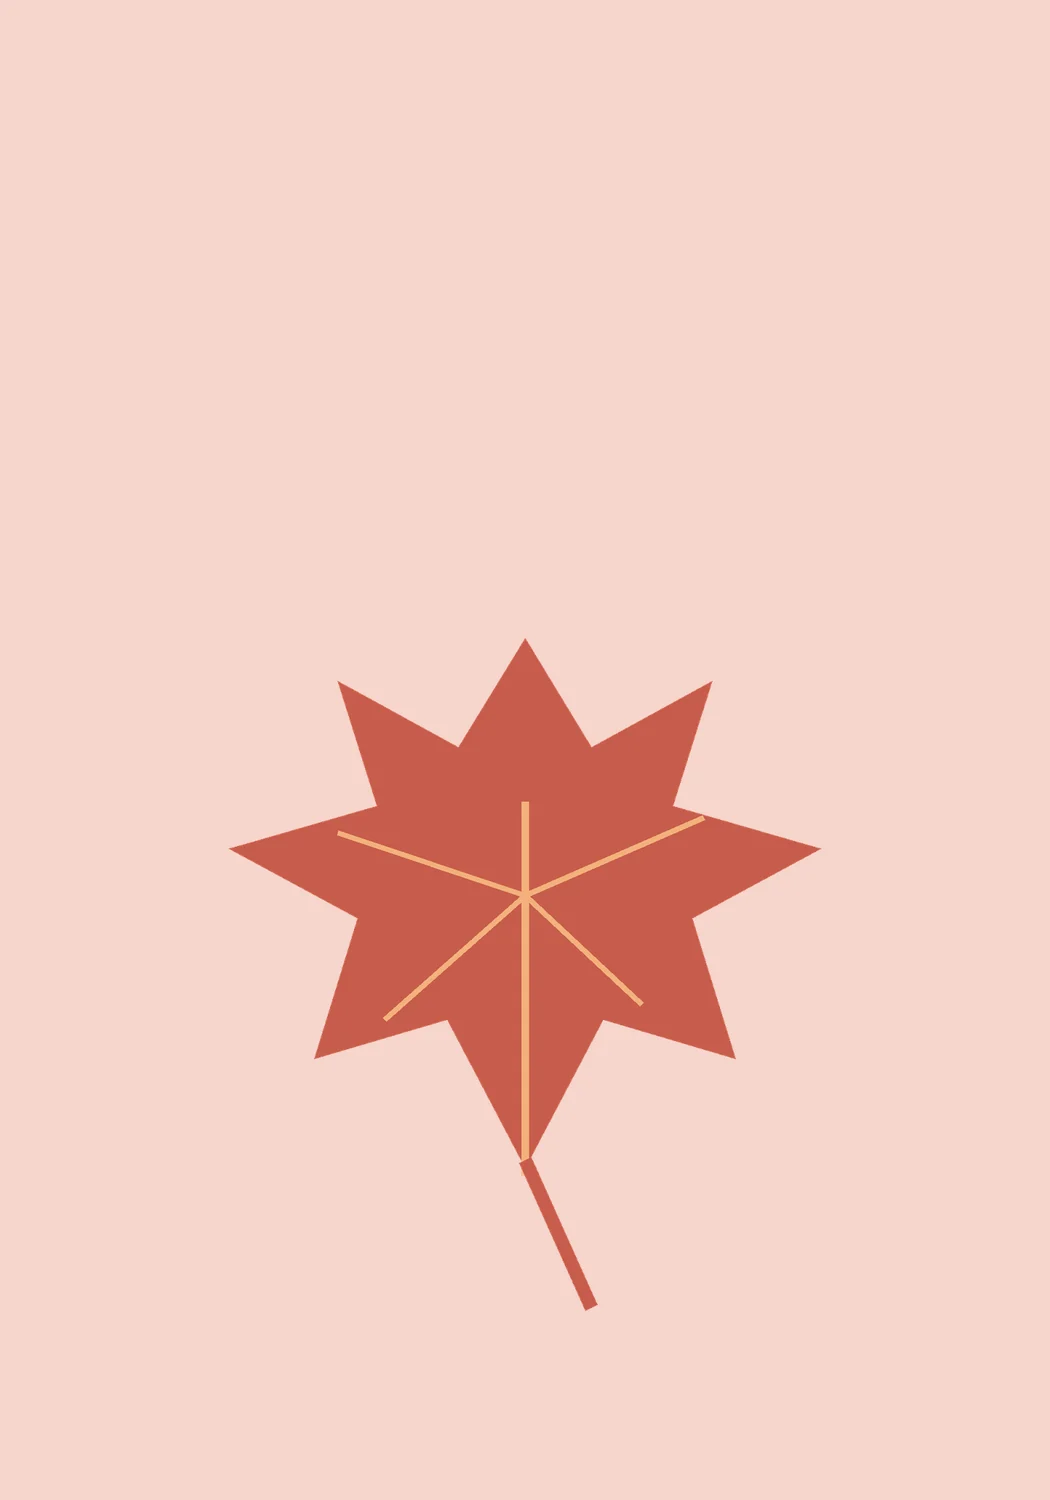
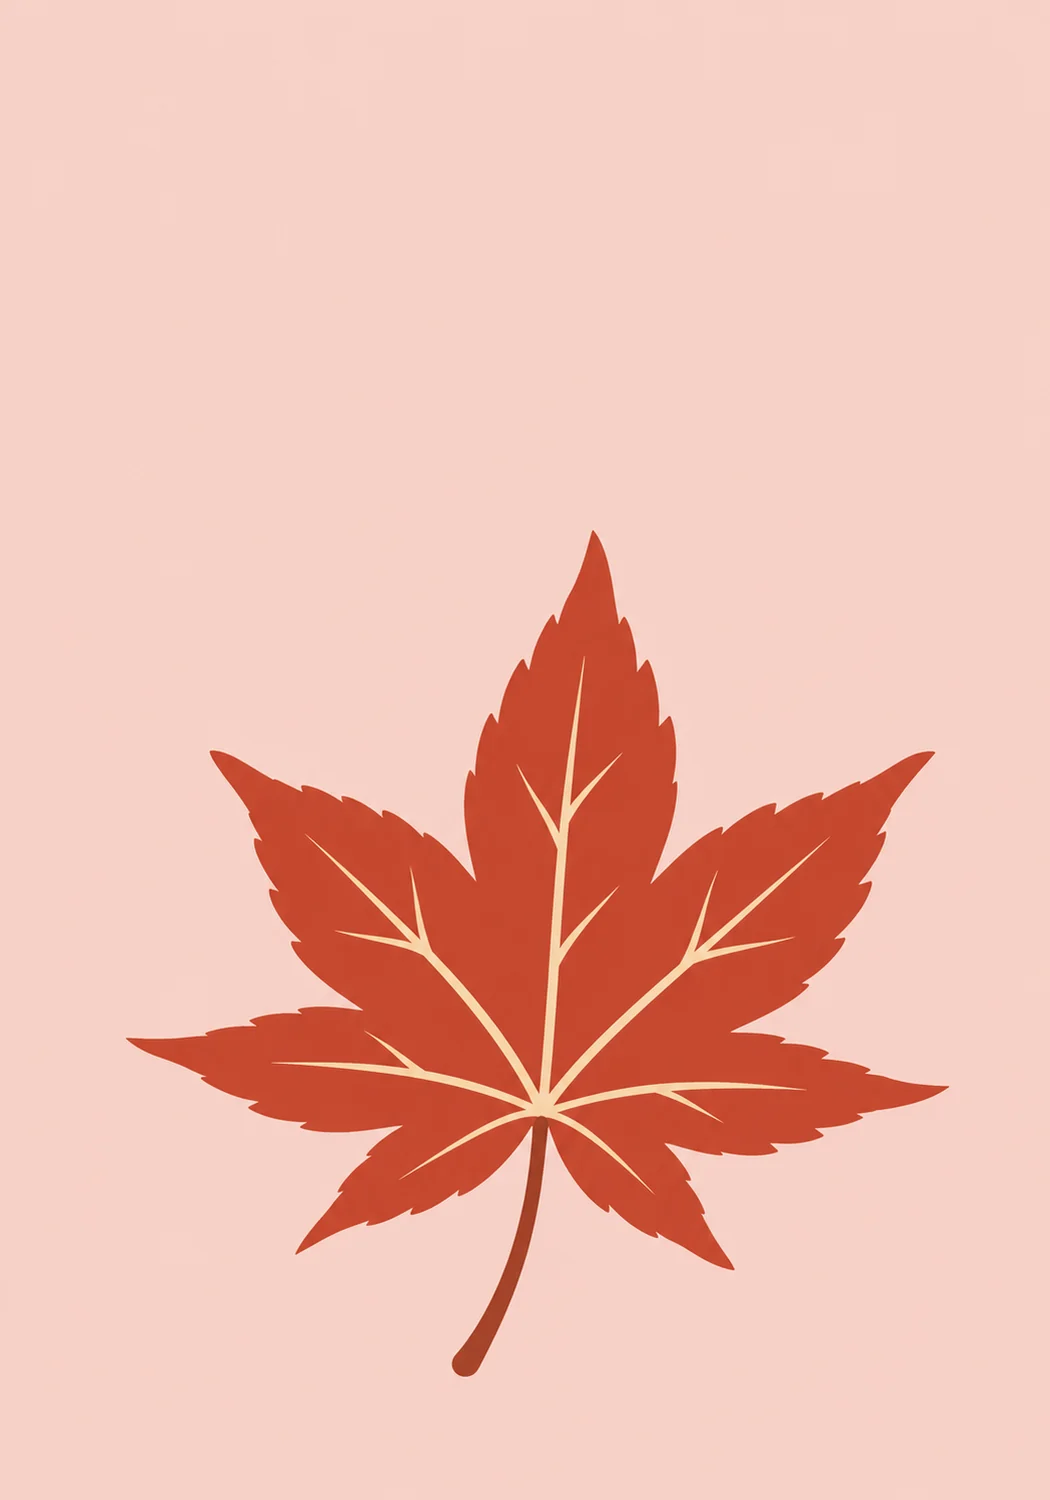
粉彩京都封面換新（紅葉）；粉彩插畫可個別往上移，空出下方標題位置
Claude-Session: https://claude.ai/code/session_01NfU4Y1XG581Dp9VMgqLd7E

Changed region(s): [[0.1219, 0.3373, 0.9143, 0.92]]

diff --git a/index.html b/index.html
@@ -792,7 +792,9 @@ const CVART_ZH={kyoto:'京都',osaka:'大阪',tokyo:'東京',hokkaido:'北海道
 function artOptions(id){return [['auto','自動（依目的地）'],['photo','用我的封面照片'],...CVART[id].map(k=>[k,(k==='japan'?'日本通用':CVART_ZH[k])+'插畫'])]}
 const ART={img:{},failed:new Set(),busy:{}};
 /* 粉彩插畫的底色：封面字用同色系深色，換主題色也不會出現藍底紅字 */
-const ARTBG={'pastel-kyoto':'#f6d6cc','pastel-osaka':'#fae5af','pastel-hokkaido':'#e0d5ef','pastel-okinawa':'#c7e6e0','pastel-nara':'#f3dcbf','pastel-fukuoka':'#cee5d6','pastel-japan':'#c5d9eb'};
+/* 物件太低會壓到下方中文標題：往上移幾 px（頁面高 794），空出來的地方用底色補 */
+const ARTUP={'pastel-kyoto':110};
+const ARTBG={'pastel-kyoto':'#f6d0c6','pastel-osaka':'#fae5af','pastel-hokkaido':'#e0d5ef','pastel-okinawa':'#c7e6e0','pastel-nara':'#f3dcbf','pastel-fukuoka':'#cee5d6','pastel-japan':'#c5d9eb'};
 /* 依行程猜城市：建立行程時選的熱門城市 → 都道府縣 → 標題文字；都沒有但在日本 → 日本通用 */
 function artCity(t){const ks=Object.keys(CVART_ZH).filter(k=>k!=='japan');
   for(const c of t.cities||[]){const k=ks.find(k=>CVART_ZH[k]===c);if(k)return k}
@@ -812,7 +814,7 @@ async function loadArt(t=T,retry=false){const n=t&&artName(t);if(!n||ART.img[n]|
 const artMissing=t=>{const n=artName(t);return n&&!ART.img[n]?[n]:[]};
 function artPrepare(t){const n=artName(t);if(n&&!ART.img[n]&&!ART.failed.has(n)&&!ART.busy[n])loadArt(t)}
 function artDecorate(h,t){if(!h.startsWith('<section class="pg cover">'))return h;const n=artName(t),u=n&&ART.img[n];
-  return h.replace('<section class="pg cover">',u?`<section class="pg cover art" style="background-image:url(${u})${ARTBG[n]?`;--pd:${deepHex(ARTBG[n],.3,.5)}`:''}">`:'<section class="pg cover noart">')}
+  return h.replace('<section class="pg cover">',u?`<section class="pg cover art" style="background-image:url(${u})${ARTBG[n]?`;background-color:${ARTBG[n]};--pd:${deepHex(ARTBG[n],.3,.5)}`:''}${ARTUP[n]?`;background-position:center ${-ARTUP[n]}px`:''}">`:'<section class="pg cover noart">')}
 const COVER_STYLES={key:'opts.coverStyle',label:'封面樣式',options:[['top','照片在上'],['full','滿版照片'],['frame','拱門框'],['note','手帳（紙膠帶＋印章）']]};
 const TEMPLATES=[
   {id:'clean',name:'簡約白',desc:'乾淨俐落，適合列印',tier:'free',paper:'#ffffff',softMix:.1,cover:COVER_STYLES,prev:'background:#fffdf9;border-left:5px solid var(--sw)'},
